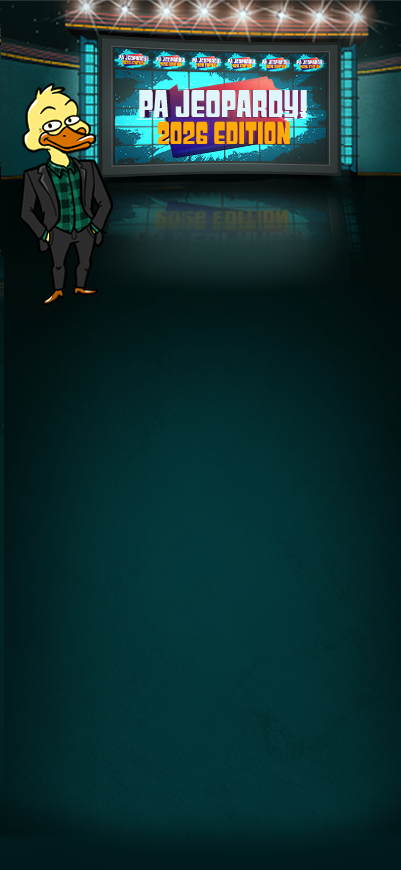
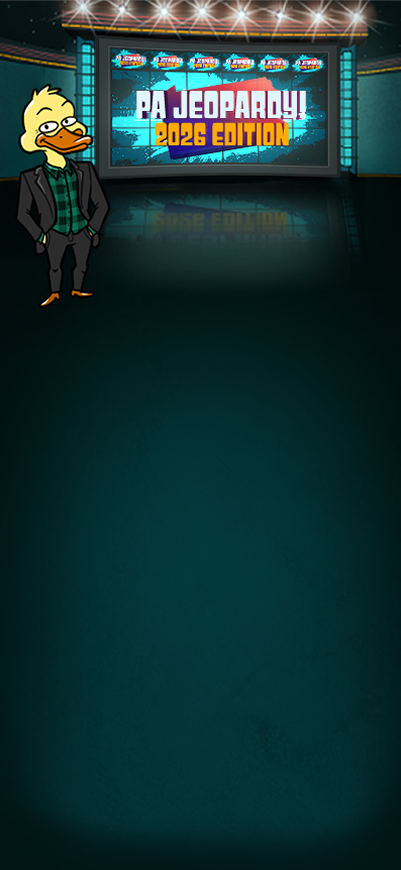
BG

Changed region(s): [[0.0, 0.0, 1.0, 0.3724]]

diff --git a/public/index.html b/public/index.html
@@ -94,7 +94,7 @@
             width: 100vw;
             height: 100vh;
             background-size: cover;
-            background-position: center;
+            background-position: top center;
             background-repeat: no-repeat;
 
             z-index: 5000;
@@ -395,7 +395,7 @@
             height: 100vh;
             background-image: url('/backgrounds/instrucholding.png');
             background-size: cover;
-            background-position: center;
+            background-position: bottom center;
             background-repeat: no-repeat;
 
             z-index: 5000;
@@ -406,7 +406,7 @@
         #clueHoldingScreen {
             position: fixed;
             background-size: cover;
-            background-position: center;
+            background-position: bottom center;
             background-repeat: no-repeat;
             width: 100vw;
             height: 100vh;
